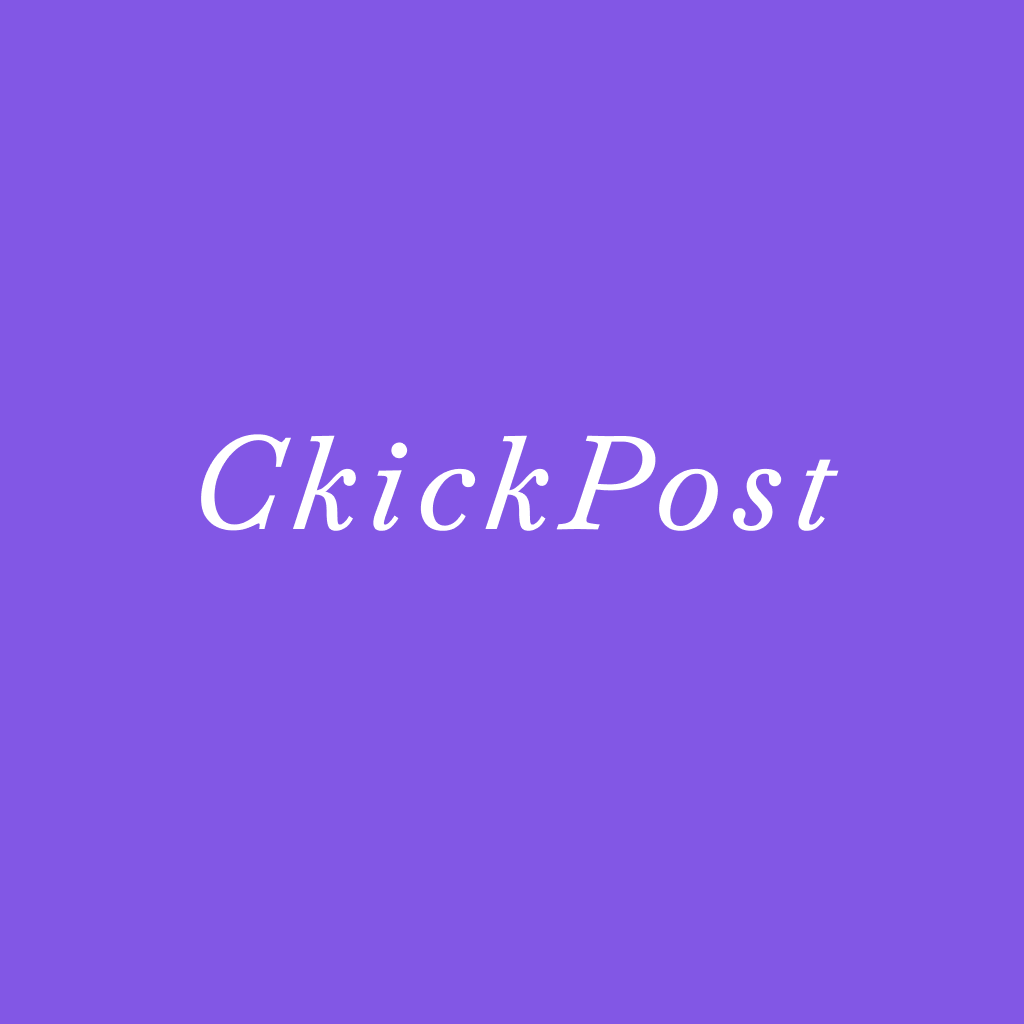
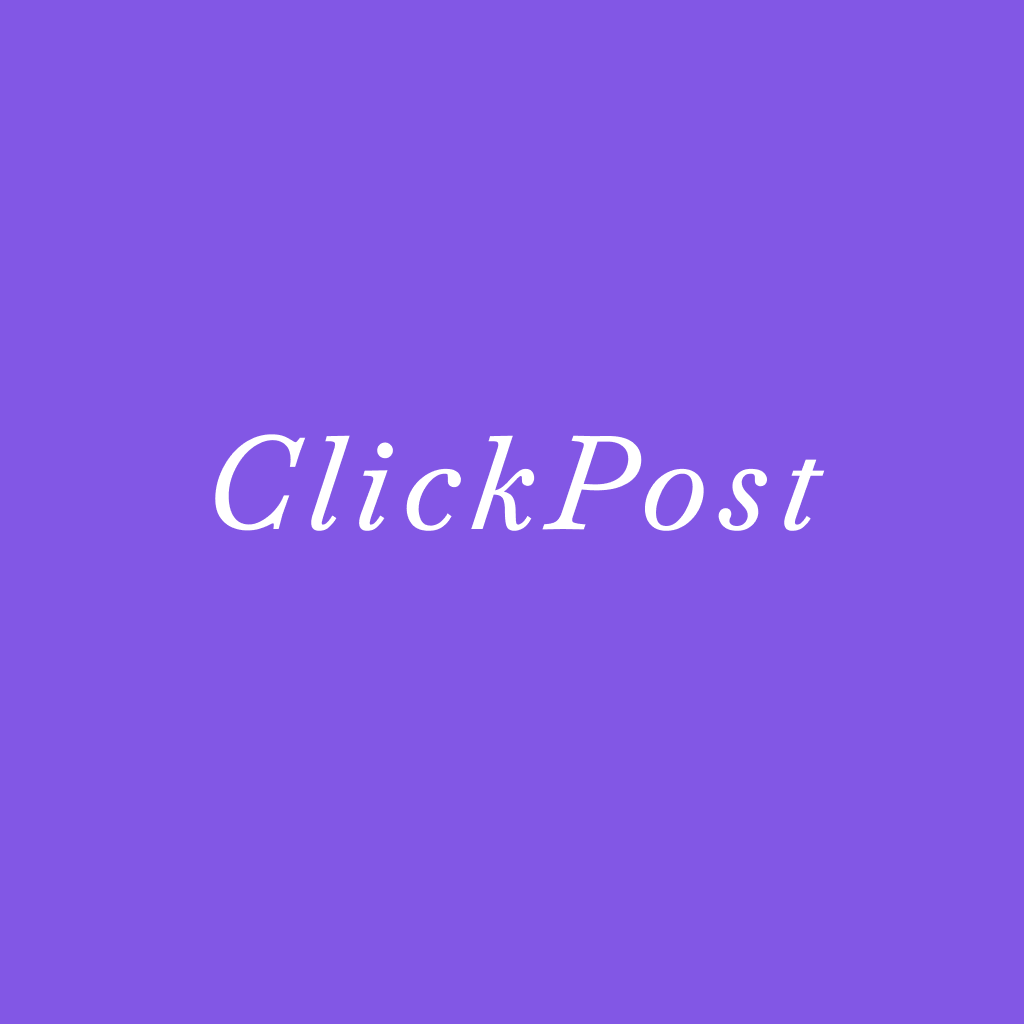
changing font loading for stackRoutes

Changed region(s): [[0.1875, 0.4062, 0.8125, 0.5312]]

diff --git a/src/hooks/UseUsers.tsx b/src/hooks/UseUsers.tsx
@@ -1,5 +1,4 @@
 import { createContext, ReactNode, useContext, useEffect, useState } from 'react';
-import { AsyncStorage } from 'react-native';
 import { api } from '../services/api';
 import { getUserPreferences, saveUserPreferences } from '../utils/storageProvider';
 
@@ -20,9 +19,9 @@ export type UserType = {
   };
 }
 
-type UserInputType = UserType;
 
 type modeType = 'dark' | 'light';
+
 type CreateContextType = {
   users: UserType[];
   userPreferences: modeType;
@@ -50,12 +49,14 @@ export function UsersProvider({ children }: UsersProviderProps) {
       
       getUserPreferences("@themeMode")
       .then((response) => {
-        setUserPreferences(response)
+        setUserPreferences(response);
       })
     })
     .catch((error) => {
       console.log(error);
     })
+
+    
   }, []);
 
 
@@ -63,13 +64,11 @@ export function UsersProvider({ children }: UsersProviderProps) {
     try {
       const response = await api.get<UserType>(`/users/${id}`);
       const user = response.data; 
-      // console.log(user);
        
       return user;
     } catch (error) {
       console.log(error);
     }
-
     return;
   }
 
@@ -91,7 +90,8 @@ export function UsersProvider({ children }: UsersProviderProps) {
       handleUserPreferences, 
       userPreferences, 
       getUser, 
-      findUser}}>
+      findUser,
+      }}>
       { children }
     </UsersContext.Provider>
   )

diff --git a/src/routes/stackRouter.tsx b/src/routes/stackRouter.tsx
@@ -2,6 +2,14 @@ import React from 'react';
 import { createNativeStackNavigator } from '@react-navigation/native-stack';
 import { ThemeProvider } from 'styled-components';
 import { darkTheme, theme } from '../theme';
+import * as SplashScreen from 'expo-splash-screen';
+
+import { 
+  useFonts,
+  Roboto_400Regular,
+  Roboto_500Medium,
+  Roboto_700Bold
+} from '@expo-google-fonts/roboto';
 
 
 import { Home } from '../pages/Home';
@@ -22,11 +30,26 @@ const Stack = createNativeStackNavigator<RootStackParams>();
 
 export function Router() {
   const { userPreferences } = useUsers();
+
+
+  SplashScreen.preventAutoHideAsync();
+    let [fontsLoaded] = useFonts({  
+    Roboto_400Regular,
+    Roboto_500Medium,
+    Roboto_700Bold 
+  });
+  
+  if(!fontsLoaded) {    
+    return null;
+  }
+
+  SplashScreen.hideAsync();
+
   return (
   <GestureHandlerRootView
       style={{
       flex: 1,
-      backgroundColor: theme.colors.background
+
     }}
     >
     

diff --git a/App.tsx b/App.tsx
@@ -1,32 +1,11 @@
 import 'react-native-gesture-handler';
 import { StatusBar } from 'expo-status-bar';
-import * as SplashScreen from 'expo-splash-screen';
 import { NavigationContainer } from '@react-navigation/native';
-
-import { 
-  useFonts,
-  Roboto_400Regular,
-  Roboto_500Medium,
-  Roboto_700Bold
-} from '@expo-google-fonts/roboto';
-
 import AppProvider  from './src/hooks';
 import { Router } from './src/routes/stackRouter';
 
 
 export default function App() {
-  SplashScreen.preventAutoHideAsync();
-  let [fontsLoaded] = useFonts({  
-    Roboto_400Regular,
-    Roboto_500Medium,
-    Roboto_700Bold 
-  });
-
-  if(!fontsLoaded) {
-    return null;
-  }
-
-  SplashScreen.hideAsync();
 
   return (
     <NavigationContainer>

diff --git a/src/pages/Profile/index.tsx b/src/pages/Profile/index.tsx
@@ -90,7 +90,7 @@ export function Profile() {
       <Image 
           resizeMethod="scale"
           source={{
-          uri: `https://i.pravatar.cc/150?img=${username?.length}`,
+          uri: `https://i.pravatar.cc/150?img=${user.username}`,
         }}
       />
       <ContainerUser>
